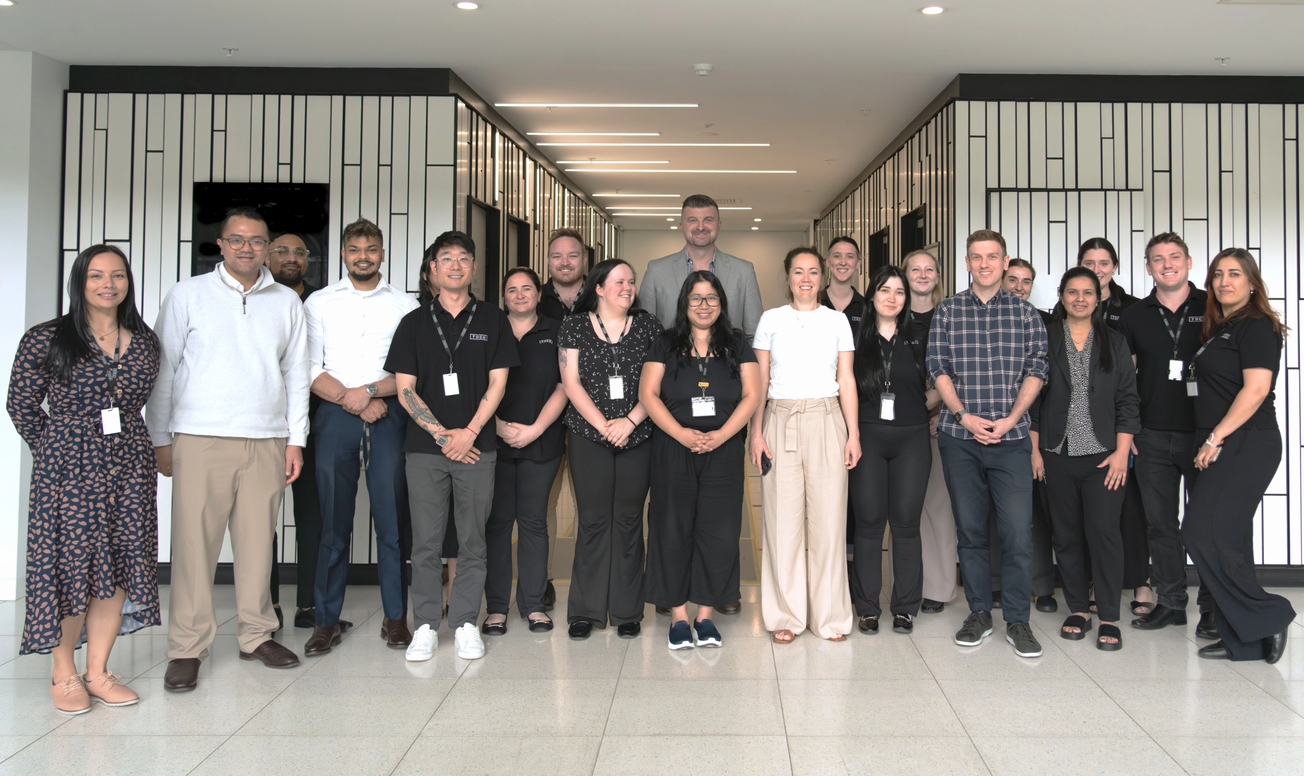
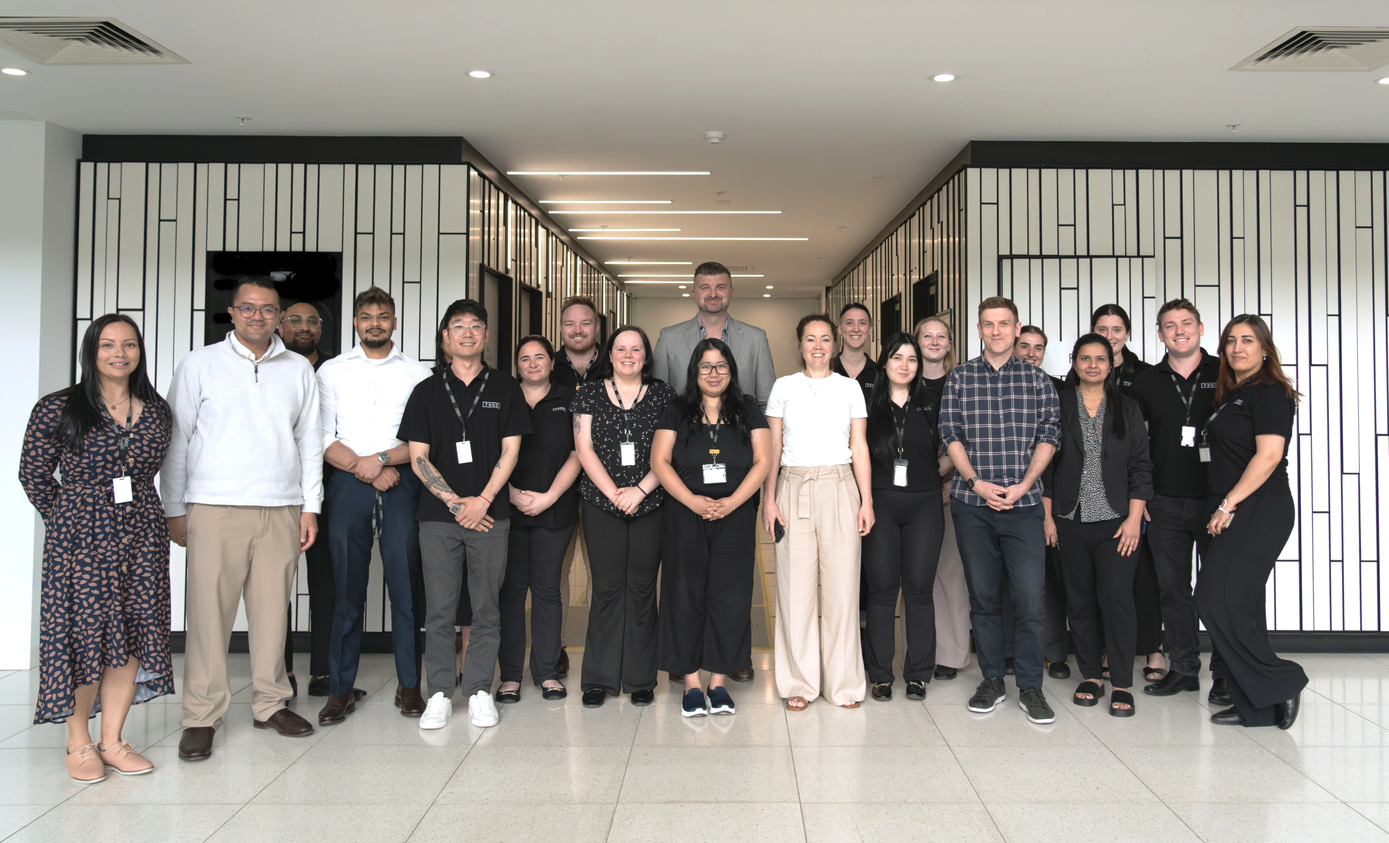
reupload team photo

diff --git a/dist/index.html b/dist/index.html
@@ -9,7 +9,7 @@
     />
     <title>TUCO Logistics</title>
     <link rel="icon" type="image/svg+xml" href="/tuco_icon.svg" />
-    <script type="module" crossorigin src="/assets/index-ilOETVO6.js"></script>
+    <script type="module" crossorigin src="/assets/index-CC2M0ZIi.js"></script>
     <link rel="stylesheet" crossorigin href="/assets/index-t6BVGqUt.css">
   </head>
   <body class="bg-gray-50 antialiased">
